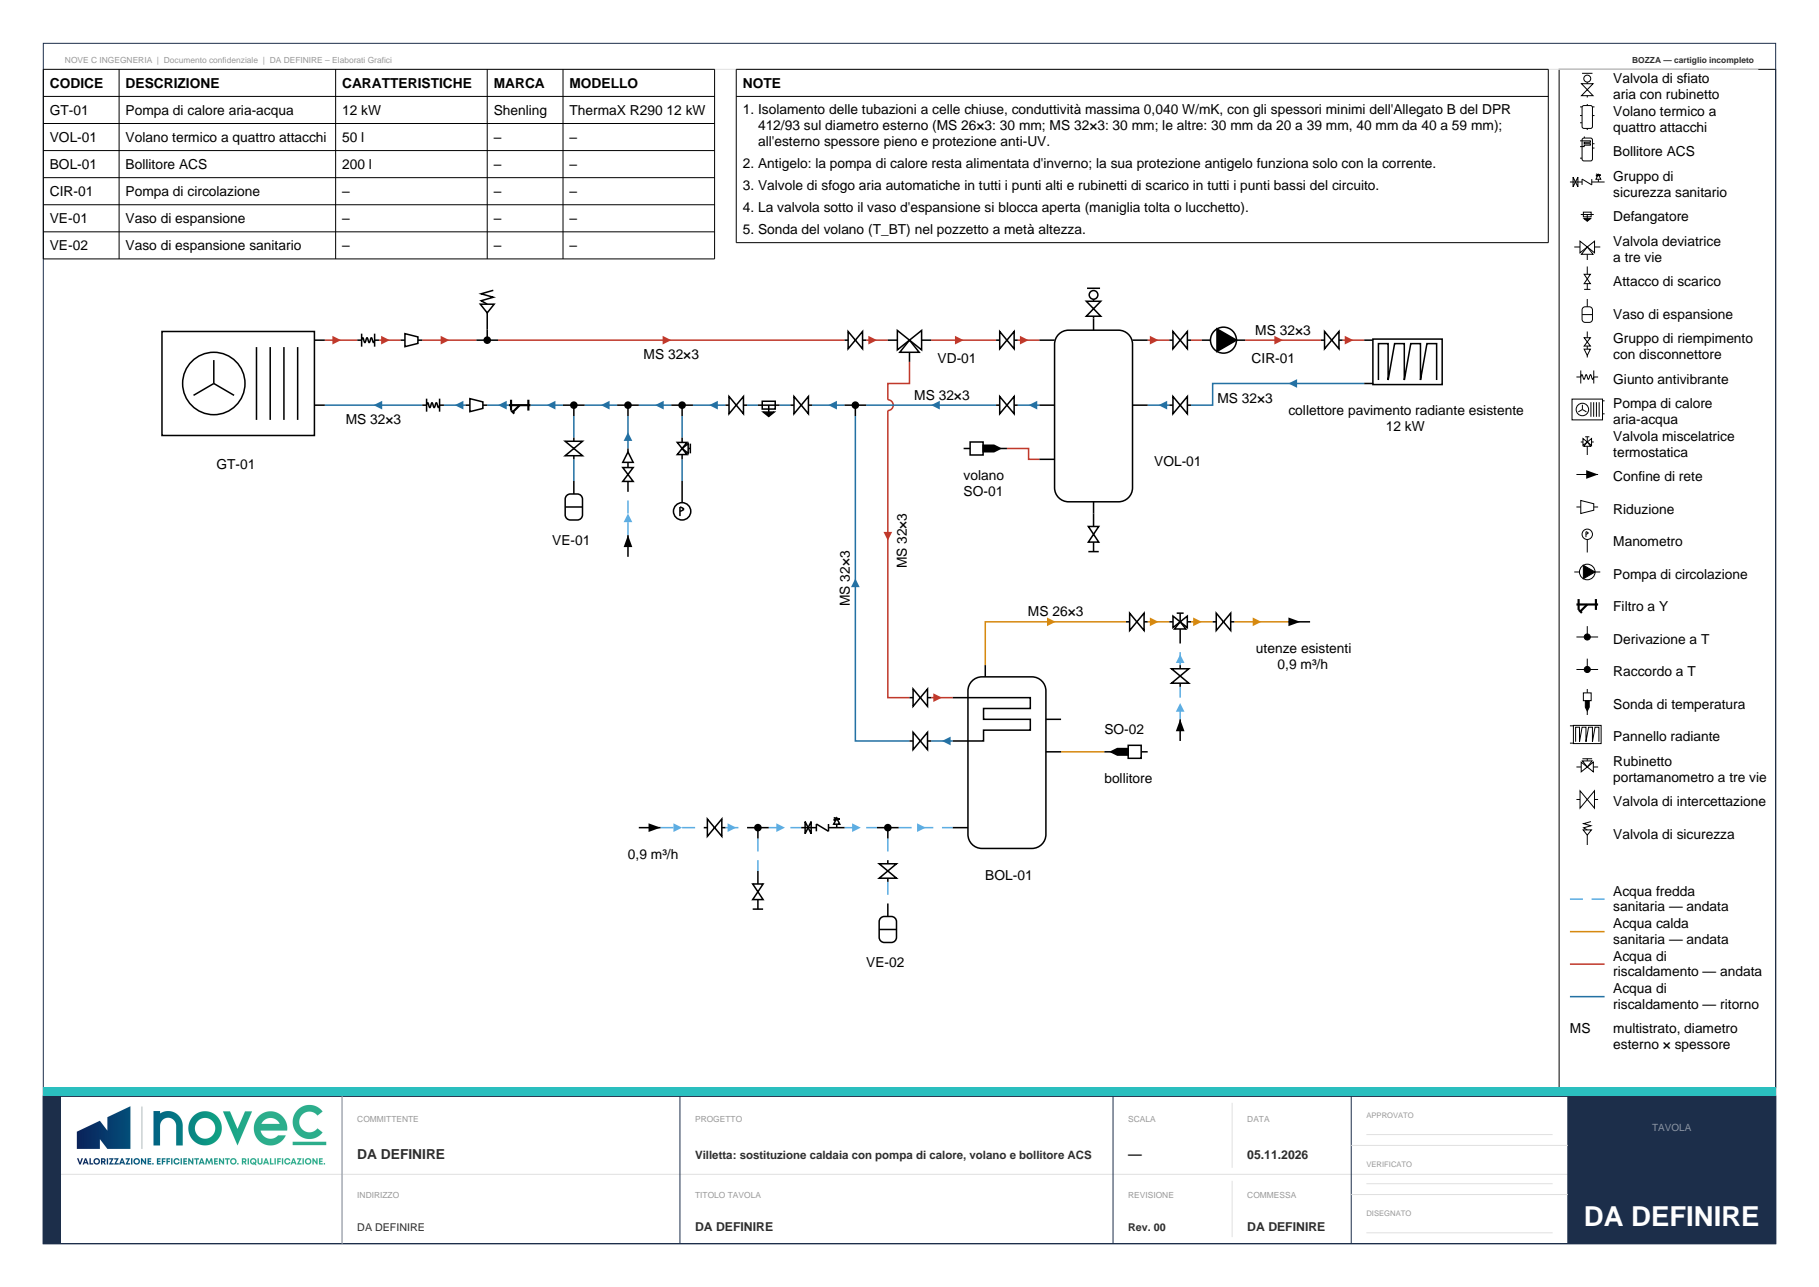
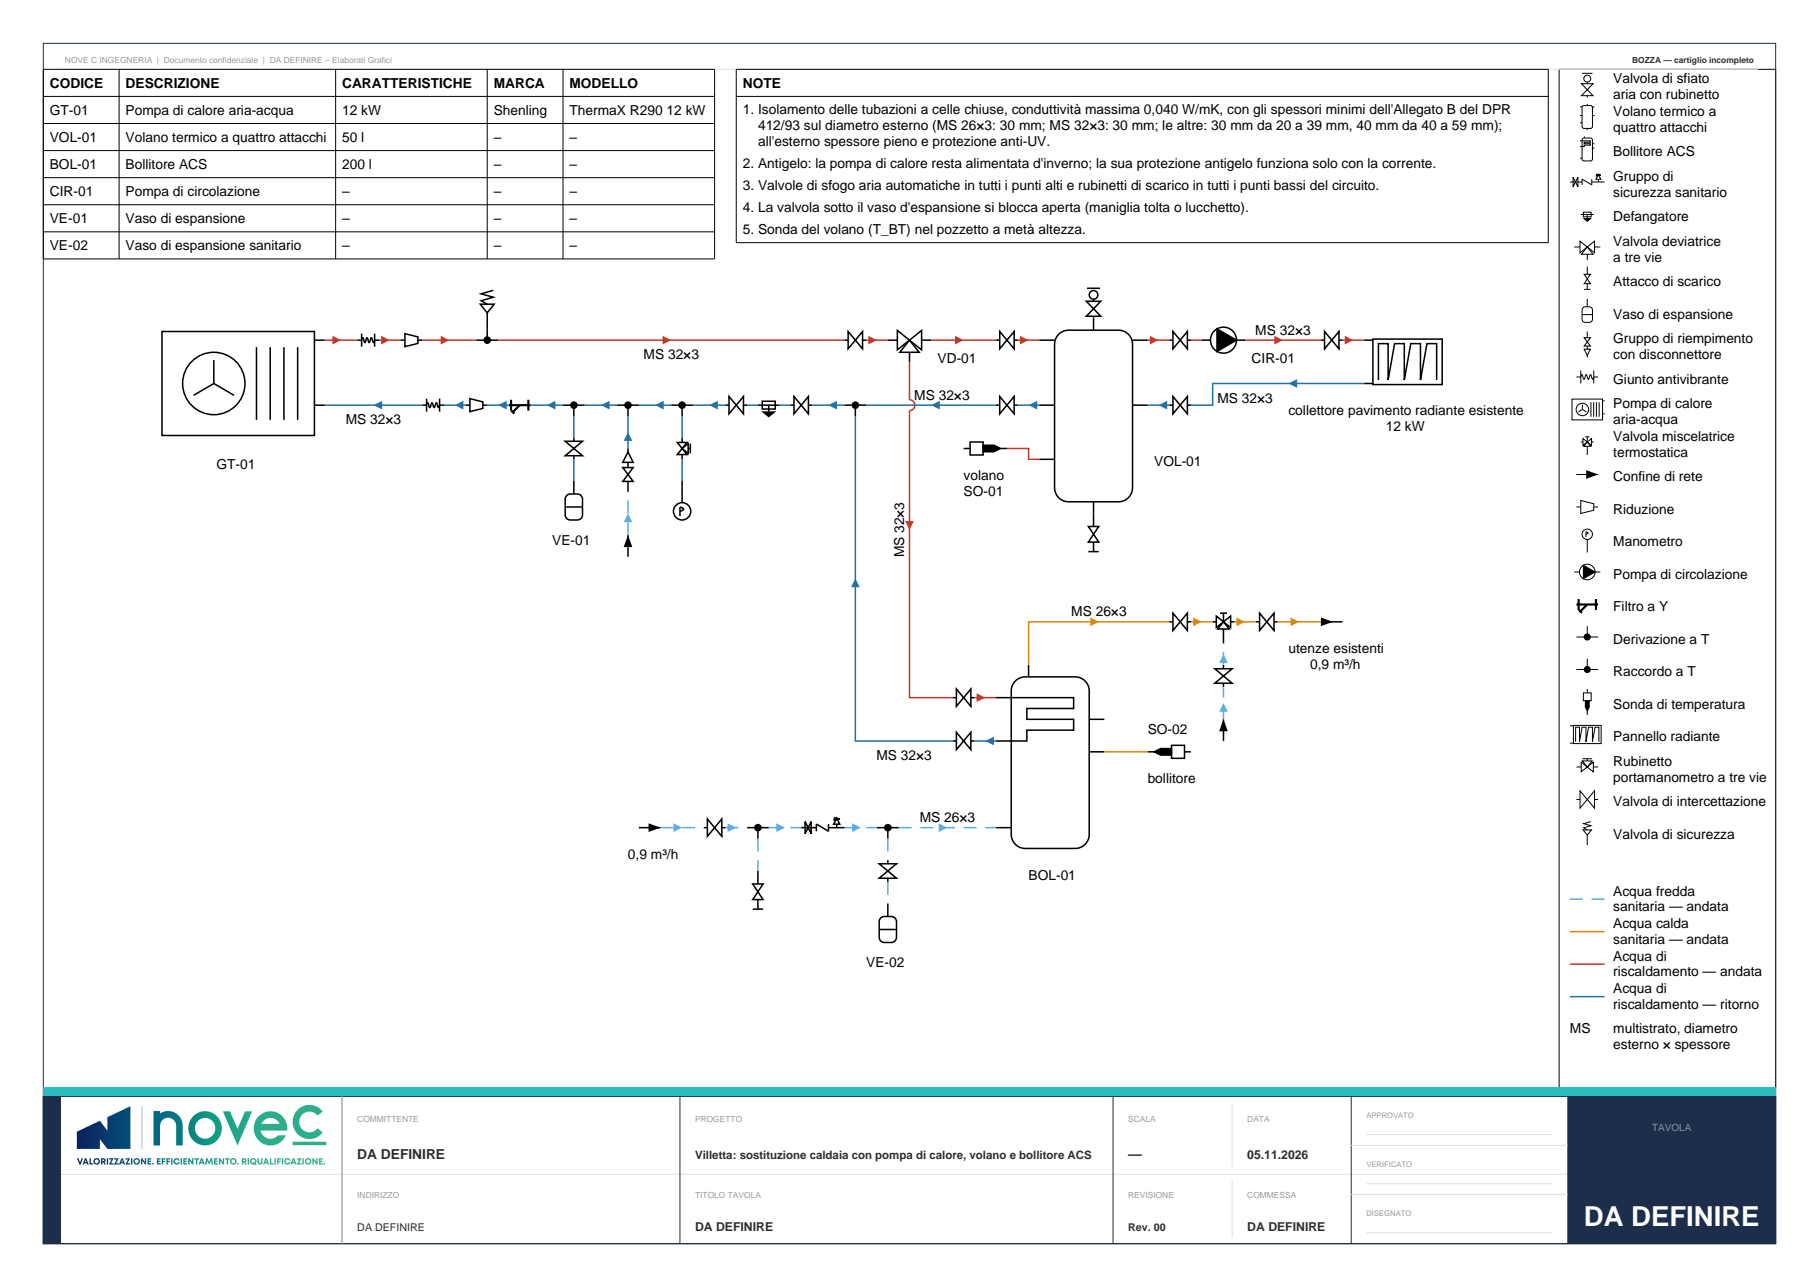
REL-023: la tavola del T1 senza il dente fra deviatrice e bollitore (rilievo del PO)
Il bollitore e i suoi pezzi 10 mm a destra nel piano: la discesa dalla terza via arriva
dritta alla valvola del serpentino; lo stacco delle utenze accorciato.

Claude-Session: https://claude.ai/code/session_01FwSMQE44sUUe3ww1YR3TZC

diff --git a/docs/collaudi/REL-023/RAPPORTO.md b/docs/collaudi/REL-023/RAPPORTO.md
@@ -17,6 +17,14 @@ le due valvole antigelo non ci sono più, e la nota 2 dice «Antigelo: la pompa 
 sua protezione antigelo funziona solo con la corrente». La stessa cosa sulla villetta di `REL-017`
 (`docs/collaudi/REL-017/vaso-note/tavola/`), rifatta con il suo `rifai.sh`.
 
+**Il rilievo del PO sulla tavola del T1** (6 novembre 2026, «occhio a ste robe»): la discesa dalla terza via della
+deviatrice al serpentino del bollitore faceva un dente proprio sull'incrocio col ritorno. Il disegno lo diceva
+(`HIGHWAY_IS_NOT_STRAIGHT`: tre pieghe dove ne basta una), era già nella tavola di `REL-021`, e la sessione non l'ha
+riferito prima di mostrare la tavola. Corretto nel piano: il bollitore e i suoi pezzi 10 mm a destra, lo stacco delle
+utenze accorciato di 2,5 mm. Restano nella tavola, come nella villetta di `REL-017`, la coppia del secondario che
+fra collettore e volano cambia interasse (10 e 15 mm, `SUPPLY_AND_RETURN_DO_NOT_RUN_TOGETHER`): gli attacchi del volano
+e del collettore hanno passi diversi, e il piano da solo non li allinea.
+
 ## Le misure
 
 Il costo della minuteria del T1, con la stessa skill costruita da `scripts/costruisci-skill.py`:
